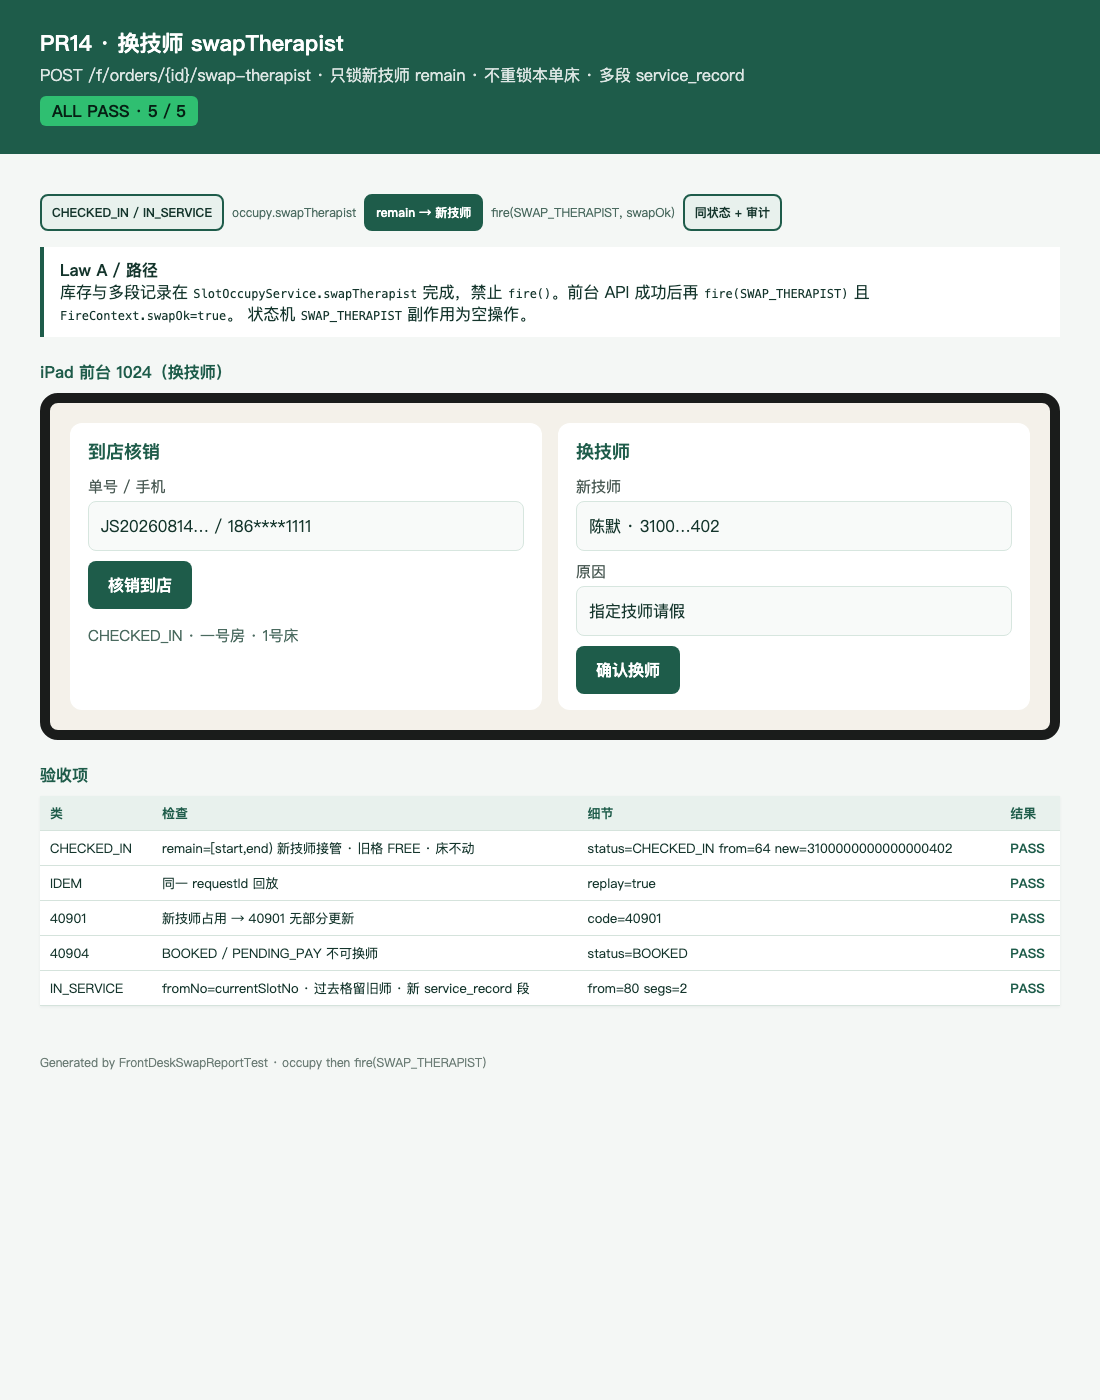
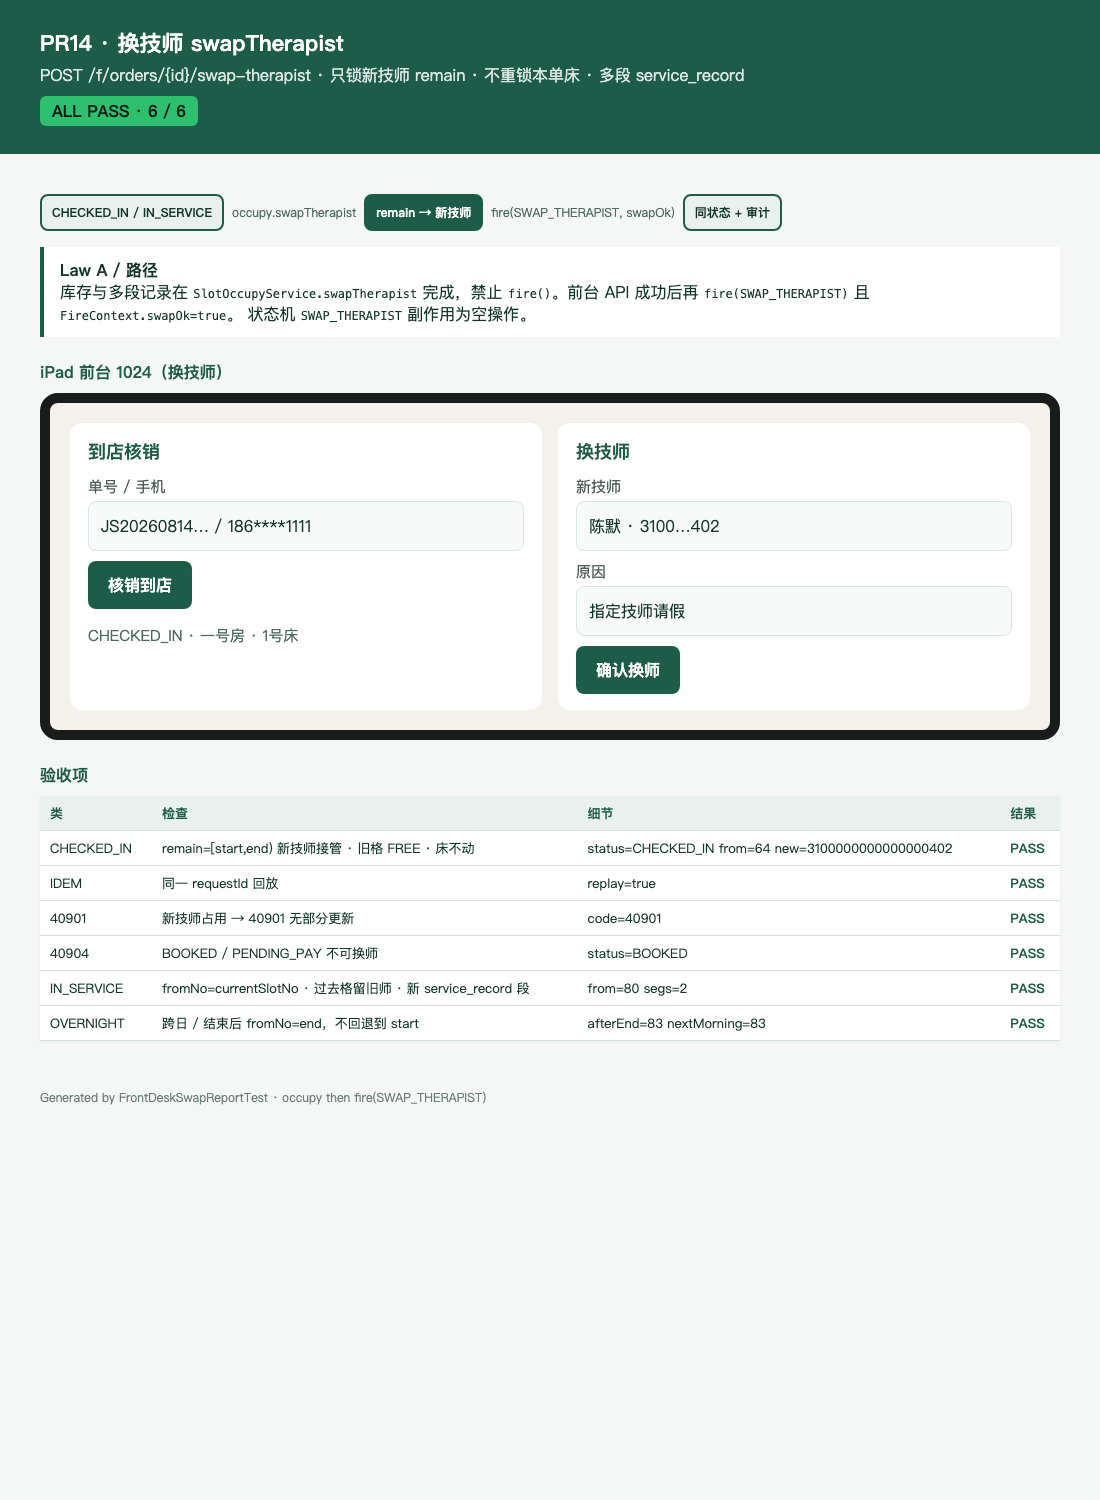
fix: address review feedback for feat(inventory,frontdesk): swapTherapist

Changed region(s): [[0.0, 0.0, 1.0, 0.7679]]

diff --git a/docs/test-cases/pr-14-swap.html b/docs/test-cases/pr-14-swap.html
@@ -48,7 +48,7 @@
   <header>
     <h1>PR14 · 换技师 swapTherapist</h1>
     <p>POST /f/orders/{id}/swap-therapist · 只锁新技师 remain · 不重锁本单床 · 多段 service_record</p>
-    <span class="badge ">ALL PASS · 5 / 5</span>
+    <span class="badge ">ALL PASS · 6 / 6</span>
   </header>
   <main>
     <div class="flow">
@@ -92,6 +92,7 @@
 <tr class='ok'><td>40901</td><td>新技师占用 → 40901 无部分更新</td><td>code=40901</td><td>PASS</td></tr>
 <tr class='ok'><td>40904</td><td>BOOKED / PENDING_PAY 不可换师</td><td>status=BOOKED</td><td>PASS</td></tr>
 <tr class='ok'><td>IN_SERVICE</td><td>fromNo=currentSlotNo · 过去格留旧师 · 新 service_record 段</td><td>from=80 segs=2</td><td>PASS</td></tr>
+<tr class='ok'><td>OVERNIGHT</td><td>跨日 / 结束后 fromNo=end，不回退到 start</td><td>afterEnd=83 nextMorning=83</td><td>PASS</td></tr>
       </tbody>
     </table>
   </main>

diff --git a/server/src/test/java/com/jisuodashi/inventory/SwapTherapistServiceTest.java b/server/src/test/java/com/jisuodashi/inventory/SwapTherapistServiceTest.java
@@ -5,11 +5,13 @@ import com.jisuodashi.common.AppClock;
 import com.jisuodashi.common.ErrorCodes;
 import com.jisuodashi.inventory.InMemorySlotOccupyStore.MutableSlot;
 import com.jisuodashi.inventory.SlotOccupyStore.OccupancyInsert;
+import com.jisuodashi.inventory.SlotOccupyStore.TherapistRef;
 import com.jisuodashi.staff.InMemoryTreatmentNoteRepository;
 import com.jisuodashi.staff.ServiceRecord;
 import org.junit.jupiter.api.Test;
 
 import java.time.Clock;
+import java.time.LocalDate;
 import java.time.LocalTime;
 import java.util.List;
 import java.util.Map;
@@ -75,7 +77,7 @@ class SwapTherapistServiceTest {
                 .isEqualTo(pinsBefore.stream().filter(k -> k.startsWith("B|")).collect(Collectors.toSet()));
         assertThat(notes.listServiceRecords(locked.orderId())).isEmpty();
         assertThat(notes.findByOrderId(locked.orderId()))
-                .anyMatch(n -> n.content().contains("中途换师"));
+                .noneMatch(n -> n.content().contains("中途换师"));
 
         SwapTherapistResult replay = service.swapTherapist("sw-ci-1", locked.orderId(), T2, "指定技师请假");
         assertThat(replay.replay()).isTrue();
@@ -124,7 +126,71 @@ class SwapTherapistServiceTest {
         assertThat(segments.get(1).therapistId()).isEqualTo(T2);
         assertThat(segments.get(1).endedAt()).isNull();
         assertThat(notes.findByOrderId(locked.orderId()))
-                .anyMatch(n -> n.content().contains("中途换师"));
+                .anyMatch(n -> n.content().contains("中途换师")
+                        && n.storeId() == OccupyFixtures.STORE
+                        && n.therapistId() == T2);
+    }
+
+    @Test
+    void swapWritesNewTherapistHomeStoreId() {
+        InMemorySlotOccupyStore store = OccupyFixtures.demoStore();
+        long homeOther = 3_199_000_000_000_000_001L;
+        store.seedTherapist(new TherapistRef(T2, homeOther));
+        SlotOccupyService service = OccupyFixtures.service(store);
+        LockNewResult locked = service.lockNew(OccupyFixtures.cmd("sw-home", T1, START_1930));
+        service.confirmPaidSlots(locked.orderId());
+        store.setOrderStatus(locked.orderId(), "CHECKED_IN");
+        Map<String, OccupancyInsert> bedsBefore = bedOccupancy(store);
+        assertThat(store.orders.get(locked.orderId()).therapistHomeStoreId()).isEqualTo(OccupyFixtures.STORE);
+
+        service.swapTherapist("sw-home-1", locked.orderId(), T2, "x");
+
+        assertThat(store.orders.get(locked.orderId()).therapistHomeStoreId()).isEqualTo(homeOther);
+        assertThat(store.findOrderById(locked.orderId()).storeId()).isEqualTo(OccupyFixtures.STORE);
+        assertThat(store.findOrderById(locked.orderId()).therapistId()).isEqualTo(T2);
+        assertThat(bedOccupancy(store)).isEqualTo(bedsBefore);
+    }
+
+    @Test
+    void inServiceAfterEndOrNextDayDoesNotMovePastSlots() {
+        InMemorySlotOccupyStore afterEnd = OccupyFixtures.demoStore();
+        InMemoryTreatmentNoteRepository notes = new InMemoryTreatmentNoteRepository();
+        SlotOccupyService evening = serviceAt(afterEnd, TODAY, LocalTime.of(21, 0));
+        evening.setTreatmentNotes(notes);
+        LockNewResult late = evening.lockNew(OccupyFixtures.cmd("sw-late", T1, START_1930));
+        evening.confirmPaidSlots(late.orderId());
+        afterEnd.setOrderStatus(late.orderId(), "IN_SERVICE");
+        notes.insertServiceRecord(
+                2L, late.orderId(), T1, OccupyFixtures.CUSTOMER, OccupyFixtures.STORE,
+                TODAY.atTime(19, 30).atZone(AppClock.SHANGHAI).toInstant());
+
+        SwapTherapistResult lateSwap = evening.swapTherapist("sw-late-1", late.orderId(), T2, "x");
+        assertThat(lateSwap.fromSlotNo()).isEqualTo(83);
+        for (int slot = 78; slot <= 82; slot++) {
+            assertThat(afterEnd.therapistSlot(T1, TODAY, slot).orderId).isEqualTo(late.orderId());
+            assertThat(afterEnd.therapistSlot(T2, TODAY, slot).status).isEqualTo(SlotStatus.FREE);
+        }
+        assertThat(afterEnd.findOrderById(late.orderId()).therapistId()).isEqualTo(T2);
+        assertThat(notes.listServiceRecords(late.orderId())).hasSize(2);
+
+        InMemorySlotOccupyStore nextDay = OccupyFixtures.demoStore();
+        InMemoryTreatmentNoteRepository nextNotes = new InMemoryTreatmentNoteRepository();
+        SlotOccupyService morning = serviceAt(nextDay, TODAY.plusDays(1), LocalTime.of(8, 0));
+        morning.setTreatmentNotes(nextNotes);
+        LockNewResult overnight = morning.lockNew(OccupyFixtures.cmd("sw-next", T1, START_1930));
+        morning.confirmPaidSlots(overnight.orderId());
+        nextDay.setOrderStatus(overnight.orderId(), "IN_SERVICE");
+        nextNotes.insertServiceRecord(
+                3L, overnight.orderId(), T1, OccupyFixtures.CUSTOMER, OccupyFixtures.STORE,
+                TODAY.atTime(19, 30).atZone(AppClock.SHANGHAI).toInstant());
+
+        SwapTherapistResult nextSwap = morning.swapTherapist("sw-next-1", overnight.orderId(), T2, "x");
+        assertThat(nextSwap.fromSlotNo()).isEqualTo(83);
+        for (int slot = 78; slot <= 82; slot++) {
+            assertThat(nextDay.therapistSlot(T1, TODAY, slot).orderId).isEqualTo(overnight.orderId());
+            assertThat(nextDay.therapistSlot(T2, TODAY, slot).status).isEqualTo(SlotStatus.FREE);
+        }
+        assertThat(nextDay.findOrderById(overnight.orderId()).therapistId()).isEqualTo(T2);
     }
 
     @Test
@@ -169,9 +235,13 @@ class SwapTherapistServiceTest {
     }
 
     private static SlotOccupyService serviceAt(InMemorySlotOccupyStore store, LocalTime time) {
+        return serviceAt(store, TODAY, time);
+    }
+
+    private static SlotOccupyService serviceAt(InMemorySlotOccupyStore store, LocalDate date, LocalTime time) {
         AtomicLong ids = new AtomicLong(9_100_000_000_000_000_000L);
         AppClock clock = new AppClock(Clock.fixed(
-                TODAY.atTime(time).atZone(AppClock.SHANGHAI).toInstant(), AppClock.SHANGHAI));
+                date.atTime(time).atZone(AppClock.SHANGHAI).toInstant(), AppClock.SHANGHAI));
         return new SlotOccupyService(store, new InMemoryTherapistDayLock(), ids::incrementAndGet, clock);
     }
 

diff --git a/server/src/main/java/com/jisuodashi/inventory/SlotOccupyService.java b/server/src/main/java/com/jisuodashi/inventory/SlotOccupyService.java
@@ -733,11 +733,7 @@ public class SlotOccupyService {
         this.notes = notes;
     }
 
-    /**
-     * Move remain therapist slots to {@code newTherapistId}. Never CAS/locks the bed.
-     * Must not {@code fire()} (Law A). Caller then {@code fire(SWAP_THERAPIST, ctx.withSwapOk())};
-     * the SWAP_THERAPIST side is a no-op so audit is recorded without a second occupy.
-     */
+    /** Move remain therapist slots; do not touch the bed. */
     public SwapTherapistResult swapTherapist(String requestId, long orderId, long newTherapistId, String reason) {
         if (requestId == null || requestId.isBlank()) {
             throw new ApiException(ErrorCodes.BAD_REQUEST, "requestId 不能为空");
@@ -783,15 +779,9 @@ public class SlotOccupyService {
                 throw new ApiException(ErrorCodes.NOT_FOUND, "技师不存在");
             }
 
-            int fromNo = order.startSlotNo();
-            if (ORDER_IN_SERVICE.equals(order.status())) {
-                fromNo = Math.max(currentSlotNo(clock.now()), order.startSlotNo());
-            }
-            if (fromNo > order.endSlotNo()) {
-                fromNo = order.endSlotNo();
-            }
-            List<Integer> remain = slotRange(fromNo, order.endSlotNo());
             LocalDateTime now = clock.now();
+            int fromNo = remainFrom(order, now);
+            List<Integer> remain = slotRange(fromNo, order.endSlotNo());
             if (!remain.isEmpty()) {
                 moveRemainTherapist(order, newTherapistId, remain, now);
             }
@@ -839,15 +829,28 @@ public class SlotOccupyService {
         if (notes == null) {
             return;
         }
-        java.time.Instant at = now.atZone(AppClock.SHANGHAI).toInstant();
-        if (ORDER_IN_SERVICE.equals(order.status())) {
-            notes.markLatestEnded(order.id(), at);
-            notes.insertServiceRecord(
-                    ids.getAsLong(), order.id(), newTherapistId,
-                    order.customerId(), order.storeId(), at);
+        if (!ORDER_IN_SERVICE.equals(order.status())) {
+            return;
         }
+        java.time.Instant at = now.atZone(AppClock.SHANGHAI).toInstant();
+        notes.markLatestEnded(order.id(), at);
+        notes.insertServiceRecord(
+                ids.getAsLong(), order.id(), newTherapistId,
+                order.customerId(), order.storeId(), at);
         String content = (reason == null || reason.isBlank()) ? "中途换师" : "中途换师：" + reason.trim();
-        notes.insertSystemNote(ids.getAsLong(), order.id(), 0L, content, at);
+        notes.insertSystemNote(
+                ids.getAsLong(), order.id(), order.storeId(), newTherapistId, 0L, content, at);
+    }
+
+    public static int remainFrom(BookingOrderRef order, LocalDateTime now) {
+        if (!ORDER_IN_SERVICE.equals(order.status())) {
+            return order.startSlotNo();
+        }
+        int current = currentSlotNo(now);
+        if (now.toLocalDate().isAfter(order.serviceDate()) || current >= order.endSlotNo()) {
+            return order.endSlotNo();
+        }
+        return Math.max(current, order.startSlotNo());
     }
 
     private SwapIdem beginSwapIdempotent(String requestId) {

diff --git a/server/src/test/java/com/jisuodashi/frontdesk/FrontDeskSwapReportTest.java b/server/src/test/java/com/jisuodashi/frontdesk/FrontDeskSwapReportTest.java
@@ -20,6 +20,7 @@ import com.jisuodashi.inventory.InMemorySlotOccupyStore;
 import com.jisuodashi.inventory.InMemoryTherapistDayLock;
 import com.jisuodashi.inventory.OccupyFixtures;
 import com.jisuodashi.inventory.SlotOccupyService;
+import com.jisuodashi.inventory.SlotOccupyStore.BookingOrderRef;
 import com.jisuodashi.inventory.SlotStatus;
 import com.jisuodashi.inventory.SwapTherapistResult;
 import com.jisuodashi.order.FireContext;
@@ -131,6 +132,15 @@ class FrontDeskSwapReportTest {
                         && segs.get(1).therapistId() == DemoCatalogIds.THERAPIST_CHEN
                         && segs.get(1).endedAt() == null,
                 "from=" + inSvc.fromSlotNo() + " segs=" + segs.size()));
+
+        BookingOrderRef inSvcRef = new BookingOrderRef(
+                1L, "n", 1L, 1L, 1L, "IN_SERVICE", null, 0L, 78, 83, 1, null,
+                DemoCatalogIds.STORE, TODAY, 1L, DemoCatalogIds.THERAPIST_LIN);
+        int afterEnd = SlotOccupyService.remainFrom(inSvcRef, TODAY.atTime(21, 0));
+        int nextMorning = SlotOccupyService.remainFrom(inSvcRef, TODAY.plusDays(1).atTime(8, 0));
+        rows.add(row("OVERNIGHT", "跨日 / 结束后 fromNo=end，不回退到 start",
+                afterEnd == 83 && nextMorning == 83,
+                "afterEnd=" + afterEnd + " nextMorning=" + nextMorning));
 
         String html = render(rows);
         Path docs = resolveRepoRoot().resolve("docs/test-cases");

diff --git a/server/src/main/java/com/jisuodashi/staff/JdbcTreatmentNoteRepository.java b/server/src/main/java/com/jisuodashi/staff/JdbcTreatmentNoteRepository.java
@@ -155,14 +155,18 @@ public class JdbcTreatmentNoteRepository implements TreatmentNoteRepository {
     }
 
     @Override
-    public void insertSystemNote(long id, long orderId, long authorStaffId, String content, Instant now) {
-        long recordId = findLatestServiceRecord(orderId).map(ServiceRecord::id).orElse(0L);
+    public void insertSystemNote(
+            long id, long orderId, long storeId, long therapistId, long authorStaffId, String content, Instant now) {
+        Optional<ServiceRecord> latest = findLatestServiceRecord(orderId);
+        if (latest.isEmpty()) {
+            return;
+        }
         jdbc.update(
                 """
                 INSERT INTO treatment_note
                   (id, service_record_id, order_id, author_staff_id, content, created_at)
                 VALUES (?, ?, ?, ?, ?, ?)
                 """,
-                id, recordId, orderId, authorStaffId, content, JdbcTimes.ts(now));
+                id, latest.get().id(), orderId, authorStaffId, content, JdbcTimes.ts(now));
     }
 }

diff --git a/server/src/main/java/com/jisuodashi/staff/InMemoryTreatmentNoteRepository.java b/server/src/main/java/com/jisuodashi/staff/InMemoryTreatmentNoteRepository.java
@@ -92,9 +92,11 @@ public class InMemoryTreatmentNoteRepository implements TreatmentNoteRepository 
     }
 
     @Override
-    public void insertSystemNote(long id, long orderId, long authorStaffId, String content, Instant now) {
-        long therapistId = findLatestServiceRecord(orderId).map(ServiceRecord::therapistId).orElse(0L);
-        long storeId = findLatestServiceRecord(orderId).map(ServiceRecord::storeId).orElse(0L);
+    public void insertSystemNote(
+            long id, long orderId, long storeId, long therapistId, long authorStaffId, String content, Instant now) {
+        if (findLatestServiceRecord(orderId).isEmpty()) {
+            return;
+        }
         notes.add(new TreatmentNote(id, orderId, storeId, therapistId, authorStaffId, content, now));
     }
 }

diff --git a/server/src/main/java/com/jisuodashi/staff/TreatmentNoteRepository.java b/server/src/main/java/com/jisuodashi/staff/TreatmentNoteRepository.java
@@ -17,11 +17,11 @@ public interface TreatmentNoteRepository {
 
     void markLatestEnded(long orderId, Instant endedAt);
 
-    /** Always INSERT a new segment. Swap needs multiple rows per order (no uk_svc_order). */
     ServiceRecord insertServiceRecord(
             long id, long orderId, long therapistId, long customerId, long storeId, Instant now);
 
     List<ServiceRecord> listServiceRecords(long orderId);
 
-    void insertSystemNote(long id, long orderId, long authorStaffId, String content, Instant now);
+    void insertSystemNote(
+            long id, long orderId, long storeId, long therapistId, long authorStaffId, String content, Instant now);
 }

diff --git a/server/src/main/java/com/jisuodashi/staff/StaffServiceRecordSide.java b/server/src/main/java/com/jisuodashi/staff/StaffServiceRecordSide.java
@@ -28,11 +28,4 @@ public class StaffServiceRecordSide implements ServiceRecordSide {
     public void markEnded(long orderId, Instant now) {
         notes.markLatestEnded(orderId, now);
     }
-
-    /** Close the open segment and start a new one for the current order therapist. */
-    public void swapSegment(BookingOrderRef order, Instant now) {
-        notes.markLatestEnded(order.id(), now);
-        notes.insertServiceRecord(
-                ids.nextId(), order.id(), order.therapistId(), order.customerId(), order.storeId(), now);
-    }
 }

diff --git a/server/src/main/java/com/jisuodashi/frontdesk/FrontDeskService.java b/server/src/main/java/com/jisuodashi/frontdesk/FrontDeskService.java
@@ -355,10 +355,6 @@ public class FrontDeskService {
         }
     }
 
-    /**
-     * occupy.swapTherapist does inventory + service_record/note; then fire(SWAP_THERAPIST)
-     * with swapOk so the state-machine audit is written. SWAP_THERAPIST side is a no-op.
-     */
     public FrontDeskDtos.SwapTherapistResponse swapTherapist(
             String orderIdRaw, FrontDeskDtos.SwapTherapistRequest req) {
         AuthContext.requireStaff();

diff --git a/docs/test-cases/pr-14.md b/docs/test-cases/pr-14.md
@@ -7,14 +7,26 @@
 ## TC-14-01 CHECKED_IN 换师
 
 - **步骤**：lockNew → confirmPaid → `CHECKED_IN` → `swapTherapist` 新技师空闲。同一 `requestId` 再打。
-- **预期**：`remain=[start,end)`。新技师格状态 = 旧技师对应格（BOOKED/BUFFER）；旧技师 remain FREE；床 occupancy 一行不改；`therapist_id` 更新。幂等 replay=true。
+- **预期**：`remain=[start,end)`。新技师格状态 = 旧技师对应格（BOOKED/BUFFER）；旧技师 remain FREE；床 occupancy 一行不改；`therapist_id` 更新。CHECKED_IN 不写无段 `treatment_note`。幂等 replay=true。
 - **实际结果**：PASS。`SwapTherapistServiceTest.checkedInSwapMovesRemainAndLeavesBed`。
+
+## TC-14-01b 换人改籍店，不改本单门店
+
+- **步骤**：新技师 `homeStoreId` 与旧技师不同；CHECKED_IN 换师。
+- **预期**：`therapist_home_store_id` 变为新技师籍店；`store_id` 与床 occupancy 不变。
+- **实际结果**：PASS。`SwapTherapistServiceTest.swapWritesNewTherapistHomeStoreId`。
 
 ## TC-14-02 IN_SERVICE 换师（多段 service_record）
 
 - **步骤**：固定时钟 20:00（slot 80），订单 19:30 起（slot 78）。`IN_SERVICE` 后换师。
-- **预期**：`fromNo=currentSlotNo`（夹在 `[start,end)`）。过去格留旧技师；新 `service_record` 段；上一段 `ended_at` 已写。
+- **预期**：`fromNo=currentSlotNo`（夹在 `[start,end)`）。过去格留旧技师；新 `service_record` 段；上一段 `ended_at` 已写。系统笔记挂在新段上（`storeId`/`therapistId` 为新技师，不写 `service_record_id=0`）。
 - **实际结果**：PASS。`SwapTherapistServiceTest.inServiceSwapKeepsPastSlotsAndAddsSegment`。
+
+## TC-14-02b 跨日 / 结束后 IN_SERVICE
+
+- **步骤**：时钟 21:00（`current >= end`）或次日 08:00。
+- **预期**：`fromNo=end`，remain 空；已服务格留旧技师；仍更新 `therapist_id` 并新开一段。
+- **实际结果**：PASS。`SwapTherapistServiceTest.inServiceAfterEndOrNextDayDoesNotMovePastSlots`。
 
 ## TC-14-03 新技师占用 → 40901
 
